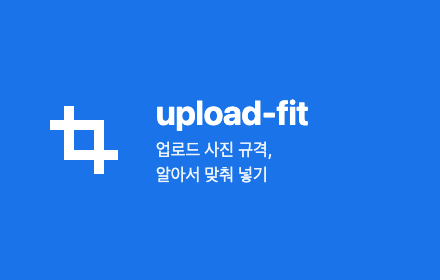
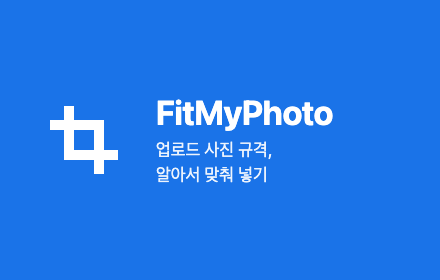
Chore: 이름 변경 upload-fit → FitMyPhoto (v0.1.1)
manifest·README·개인정보처리방침·스토어 문구·프로모션 타일, zip 이름 fitmyphoto-<버전>.zip,
내부 카드 태그 fitmyphoto-card. 저장소 주소도 FitMyPhoto로 바꾼다

Claude-Session: https://claude.ai/code/session_01PiitcAq9dDH5687qShfS6u

Changed region(s): [[0.3545, 0.3429, 0.7682, 0.4857]]

diff --git a/test.html b/test.html
@@ -1,6 +1,6 @@
 <!doctype html>
 <meta charset="utf-8">
-<title>upload-fit 브라우저 테스트</title>
+<title>FitMyPhoto 브라우저 테스트</title>
 <!-- content script 흉내: document_start처럼 페이지 스크립트보다 먼저 로드한다 -->
 <script src="spec.js"></script>
 <script src="convert.js"></script>
@@ -181,7 +181,7 @@ const tests = {
     play.choose(original);
     (await waitCard()).getElementById('apply').dispatchEvent(new KeyboardEvent('keydown', { key: 'Escape', bubbles: true, composed: true }));
     const got = await play.received();
-    check(name, got.size === original.size && !document.querySelector('upload-fit-card'), JSON.stringify({ size: got.size }));
+    check(name, got.size === original.size && !document.querySelector('fitmyphoto-card'), JSON.stringify({ size: got.size }));
     play.done();
   },
   async '이미 규격에 맞으면 카드 없이 그대로 통과'(name) {
@@ -189,7 +189,7 @@ const tests = {
     const ok = await image(1080, 1920);
     play.choose(ok);
     const got = await play.received();
-    check(name, got.size === ok.size && !document.querySelector('upload-fit-card'), JSON.stringify({ size: got.size }));
+    check(name, got.size === ok.size && !document.querySelector('fitmyphoto-card'), JSON.stringify({ size: got.size }));
     play.done();
   },
   async '못 읽는 이미지(HEIC 등)는 카드 없이 원본이 들어간다 — 업로드가 사라지면 안 된다'(name) {
@@ -205,7 +205,7 @@ const tests = {
     play.choose(await image(1080, 2340));
     (await waitCard()).getElementById('orig').click();
     await play.received();
-    check(name, !recentClicks.some(c => c.el.getRootNode() !== document && c.el.getRootNode().host?.localName === 'upload-fit-card'), recentClicks.map(c => c.el.localName).join());
+    check(name, !recentClicks.some(c => c.el.getRootNode() !== document && c.el.getRootNode().host?.localName === 'fitmyphoto-card'), recentClicks.map(c => c.el.localName).join());
     play.done();
   },
 };
@@ -225,7 +225,7 @@ function playUpload() {
     changes,
     choose: (...fs) => pick(play.input, fs),
     received: () => Promise.race([got, new Promise((_, rej) => setTimeout(() => rej(new Error('페이지가 파일을 못 받음')), 10000))]),
-    done: () => { play.root.remove(); document.querySelectorAll('upload-fit-card').forEach(c => c.remove()); },
+    done: () => { play.root.remove(); document.querySelectorAll('fitmyphoto-card').forEach(c => c.remove()); },
   };
 }
 
@@ -238,7 +238,7 @@ Object.assign(tests, {
     const second = await image(1080, 1920); // 이미 규격에 맞음 → 카드 없이 바로 통과
     play.choose(second);
     await settle(); await settle();
-    const cards = document.querySelectorAll('upload-fit-card').length;
+    const cards = document.querySelectorAll('fitmyphoto-card').length;
     check(name, play.changes.length === 1 && play.changes[0][0].size === second.size && cards === 0, JSON.stringify({ changes: play.changes.length, cards }));
     play.done();
   },
@@ -264,7 +264,7 @@ Object.assign(tests, {
     play.input.remove(); // 페이지 모달이 닫혀 input이 DOM에서 빠진 상황
     card.getElementById('orig').click();
     await settle();
-    const toastText = [...document.querySelectorAll('upload-fit-card')].map(c => c.shadowRoot.textContent).join();
+    const toastText = [...document.querySelectorAll('fitmyphoto-card')].map(c => c.shadowRoot.textContent).join();
     check(name, /업로드 칸이 닫혀/.test(toastText) && play.changes.length === 0, toastText);
     play.done();
   },
@@ -348,7 +348,7 @@ Object.assign(tests, {
 async function waitCard() {
   for (let i = 0; i < 200; i++) {
     // 토스트도 같은 태그라서, #to가 있는 진짜 카드를 찾는다
-    const root = [...document.querySelectorAll('upload-fit-card')].map(c => c.shadowRoot).find(r => r.getElementById('to')?.textContent);
+    const root = [...document.querySelectorAll('fitmyphoto-card')].map(c => c.shadowRoot).find(r => r.getElementById('to')?.textContent);
     if (root) return root;
     await new Promise(r => setTimeout(r, 25));
   }

diff --git a/content.js b/content.js
@@ -2,7 +2,7 @@
 // 브라우저는 파일을 고르면 input → change 순서로 이벤트를 쏜다. 둘 다 window capture 단계에서 멈추고,
 // change 때 처리한 다음 둘을 다시 쏜다. document_start에 등록하므로 페이지 리스너보다 항상 먼저다.
 
-const CARD = 'upload-fit-card'; // 우리 UI의 호스트 태그
+const CARD = 'fitmyphoto-card'; // 우리 UI의 호스트 태그
 let replaying = false;
 // 최근 클릭 (새 것부터). 업로드 트리거가 input과 DOM상 멀리 있는 사이트 대응 — Play Console은 모든 슬롯이 패널 속 input 하나를 공유한다
 const recentClicks = [];
@@ -53,7 +53,7 @@ async function handle(input, files) {
       }
     }
   } catch (e) {
-    console.warn('[upload-fit]', e);
+    console.warn('[FitMyPhoto]', e);
     if (current()) toast(`규격에 맞추지 못해 원본을 넣었어요. (${e.message})`);
     out = files;
   } finally {

diff --git a/browser.test.js b/browser.test.js
@@ -12,7 +12,7 @@ const { pathToFileURL } = require('node:url');
 const CHROME = process.env.CHROME || '/Applications/Google Chrome.app/Contents/MacOS/Google Chrome';
 
 test('브라우저 (test.html)', { skip: !existsSync(CHROME) && `Chrome 없음: ${CHROME}` }, async t => {
-  const profile = mkdtempSync(path.join(tmpdir(), 'upload-fit-'));
+  const profile = mkdtempSync(path.join(tmpdir(), 'fitmyphoto-'));
   const chrome = spawn(CHROME, ['--headless=new', '--remote-debugging-port=0', `--user-data-dir=${profile}`, 'about:blank'], { stdio: ['ignore', 'ignore', 'pipe'] });
   try {
     const cdp = await connect(await devtoolsUrl(chrome));

diff --git a/docs/store/listing.md b/docs/store/listing.md
@@ -1,9 +1,9 @@
 # Chrome 웹 스토어 등록 문구
 
-개발자 대시보드에 그대로 붙여넣는다. 업로드할 파일: `./pack.sh`로 만든 `dist/upload-fit-<버전>.zip`.
+개발자 대시보드에 그대로 붙여넣는다. 업로드할 파일: `./pack.sh`로 만든 `dist/fitmyphoto-<버전>.zip`.
 
 ## 스토어 등록정보
-- **이름**: upload-fit
+- **이름**: FitMyPhoto
 - **요약** (manifest `description`, 132자 이하): 업로드 칸 안내문을 읽고, 고른 이미지를 그 규격에 맞게 바꿔 넣어준다. 이미지는 브라우저 밖으로 나가지 않는다.
 - **카테고리**: 생산성 (Productivity)
 - **언어**: 한국어
@@ -26,7 +26,7 @@
 - **권한 사용 근거 — 호스트 권한 (콘텐츠 스크립트 `<all_urls>`)**: 업로드 칸은 어느 사이트에나 있고 규격 문구도 그 페이지에만 적혀 있으므로, 모든 사이트에서 파일 선택 이벤트를 받고 업로드 칸 근처 글자를 읽어야 한다. 읽은 글자와 이미지는 브라우저 안에서만 쓰고 저장·전송하지 않는다. 그 밖의 권한은 요청하지 않는다.
 - **원격 코드 사용**: 아니요
 - **데이터 사용**: 수집하는 항목 없음 (모든 항목 체크 해제)
-- **개인정보처리방침 URL**: https://github.com/YoonGangHoon/upload-fit/blob/main/PRIVACY.md
+- **개인정보처리방침 URL**: https://github.com/YoonGangHoon/FitMyPhoto/blob/main/PRIVACY.md
 
 ## 출시 전 체크
 - [ ] 개발자 등록 (일회성 등록비 $5) — 사용자

diff --git a/CLAUDE.md b/CLAUDE.md
@@ -1,4 +1,4 @@
-# upload-fit
+# FitMyPhoto
 
 업로드 칸 근처 안내문(크기·용량·형식)을 읽고, 사용자가 고른 이미지를 그 규격에 맞게 변환해 업로드 칸에 넣어주는 Chrome 확장 (MV3).
 대상: Play Console·App Store Connect 스크린샷, 원서 접수 사이트(토익 등) 증명사진.
@@ -13,7 +13,7 @@
 - `test.html`의 가로채기 테스트는 `content.js`를 빼면 실패해야 한다 (가로챘다는 증거를 확인하는 테스트만 의미가 있다).
 - 실제 사이트 검증은 확장 설치 없이도 된다: Claude in Chrome의 javascript_tool로 `spec.js`·`findSpec`을 페이지에 주입하고,
   `HTMLInputElement.prototype.click`을 막아 파일 선택창이 안 뜨게 한 뒤 실제 클릭으로 확인. 저장·업로드 버튼은 누르지 않는다.
-- 배포용 zip: `./pack.sh` → `dist/upload-fit-<version>.zip` (manifest·js 3개·icons만). 지인 공유와 웹 스토어에 같은 zip. 확장에 새 파일을 추가하면 `pack.sh` 목록도 고친다.
+- 배포용 zip: `./pack.sh` → `dist/fitmyphoto-<version>.zip` (manifest·js 3개·icons만). 지인 공유와 웹 스토어에 같은 zip. 확장에 새 파일을 추가하면 `pack.sh` 목록도 고친다.
 - 브라우저 실행: `chrome://extensions` → 개발자 모드 → "압축해제된 확장 프로그램을 로드합니다" → 이 폴더.
   코드를 고친 뒤 **확장 카드 새로고침 + 대상 탭 새로고침** 둘 다 해야 반영된다.
 

diff --git a/PRIVACY.md b/PRIVACY.md
@@ -1,8 +1,8 @@
-# 개인정보처리방침 — upload-fit
+# 개인정보처리방침 — FitMyPhoto
 
 시행일: 2026-10-22
 
-upload-fit은 **어떤 개인정보도 수집·저장·전송하지 않습니다.**
+FitMyPhoto는 **어떤 개인정보도 수집·저장·전송하지 않습니다.**
 
 - **사용자가 고른 이미지**: 사용자의 브라우저 안에서만 크기·용량·형식을 바꿉니다. 어떤 서버로도 보내지 않습니다.
 - **웹페이지의 글자**: 업로드 칸 근처의 규격 문구(예: "300×400 픽셀 이상")를 찾기 위해서만 읽고, 그 자리에서만 씁니다. 저장하거나 보내지 않습니다.
@@ -15,7 +15,7 @@ upload-fit은 **어떤 개인정보도 수집·저장·전송하지 않습니다
 
 ## Privacy Policy (English)
 
-upload-fit **does not collect, store, or transmit any personal data.**
+FitMyPhoto **does not collect, store, or transmit any personal data.**
 
 - **Images you select** are resized and re-encoded entirely inside your browser and are never sent anywhere.
 - **Page text** is read only to find upload requirements next to the file input (e.g. "300×400 px or larger"), used on the spot, and never stored or transmitted.

diff --git a/README.md b/README.md
@@ -1,4 +1,4 @@
-# upload-fit
+# FitMyPhoto
 
 업로드 칸 옆에 적힌 안내문(크기·용량·형식)을 읽고, 고른 사진을 **그 규격에 맞게 바꿔서** 넣어주는 Chrome 확장.
 
@@ -17,11 +17,11 @@
 자체 자르기 도구가 있는 곳(사람인 등)이나 규격 문구가 없는 곳에서는 아무것도 하지 않는다.
 
 ## 설치
-1. [Releases](../../releases)에서 `upload-fit-<버전>.zip`을 받아 압축을 푼다.
+1. [Releases](../../releases)에서 `fitmyphoto-<버전>.zip`을 받아 압축을 푼다.
 2. Chrome 주소창에 `chrome://extensions` → 오른쪽 위 **개발자 모드** 켜기.
 3. **압축해제된 확장 프로그램을 로드합니다** → 압축 푼 폴더 선택.
 
-업데이트: 새 zip을 같은 폴더에 덮어 풀고, `chrome://extensions`의 upload-fit 카드에서 새로고침(↻).
+업데이트: 새 zip을 같은 폴더에 덮어 풀고, `chrome://extensions`의 FitMyPhoto 카드에서 새로고침(↻).
 
 ## 쓰는 법
 평소처럼 업로드 버튼을 누르고 사진을 고르면 된다.

diff --git a/docs/design.md b/docs/design.md
@@ -1,4 +1,4 @@
-# 설계 — upload-fit
+# 설계 — FitMyPhoto
 
 승인 2026-10-22. 결정이 바뀌면 코드보다 이 파일을 먼저 고친다.
 
@@ -42,7 +42,7 @@
 
 ## 배포 (2026-10-22)
 - 아이콘·README·PRIVACY·`pack.sh`·스토어 문구와 이미지(`docs/store/`) 준비 완료. `pack.sh`로 만든 zip은 `--pack-extension`으로 로드 가능 확인.
-- GitHub 공개 저장소 https://github.com/YoonGangHoon/upload-fit , v0.1.0 릴리스에 zip 업로드.
+- GitHub 공개 저장소 https://github.com/YoonGangHoon/FitMyPhoto , v0.1.0 릴리스에 zip 업로드.
 - 남은 것 (사용자): 웹 스토어 개발자 등록($5)과 제출 (`docs/store/listing.md`).
 
 ## MVP에서 빼는 것
